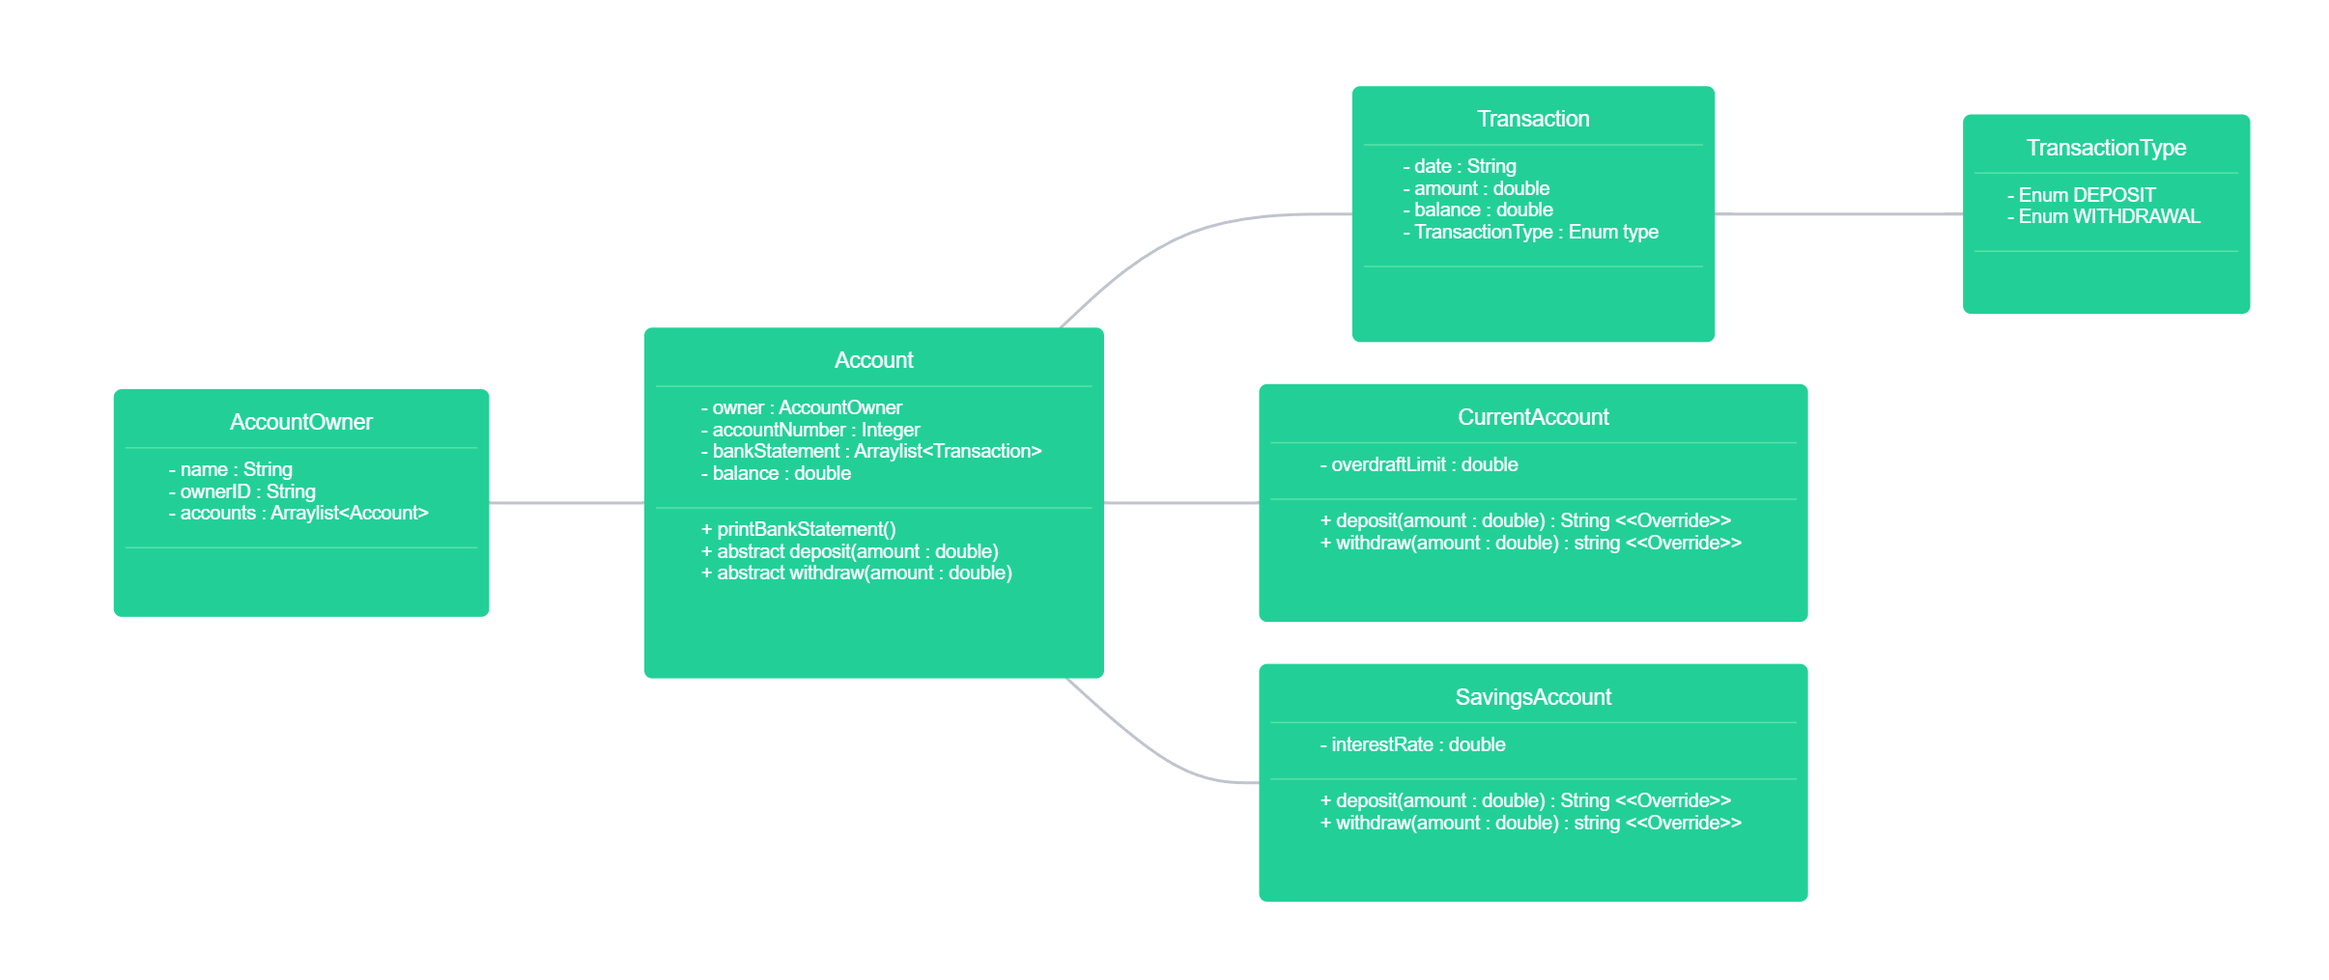
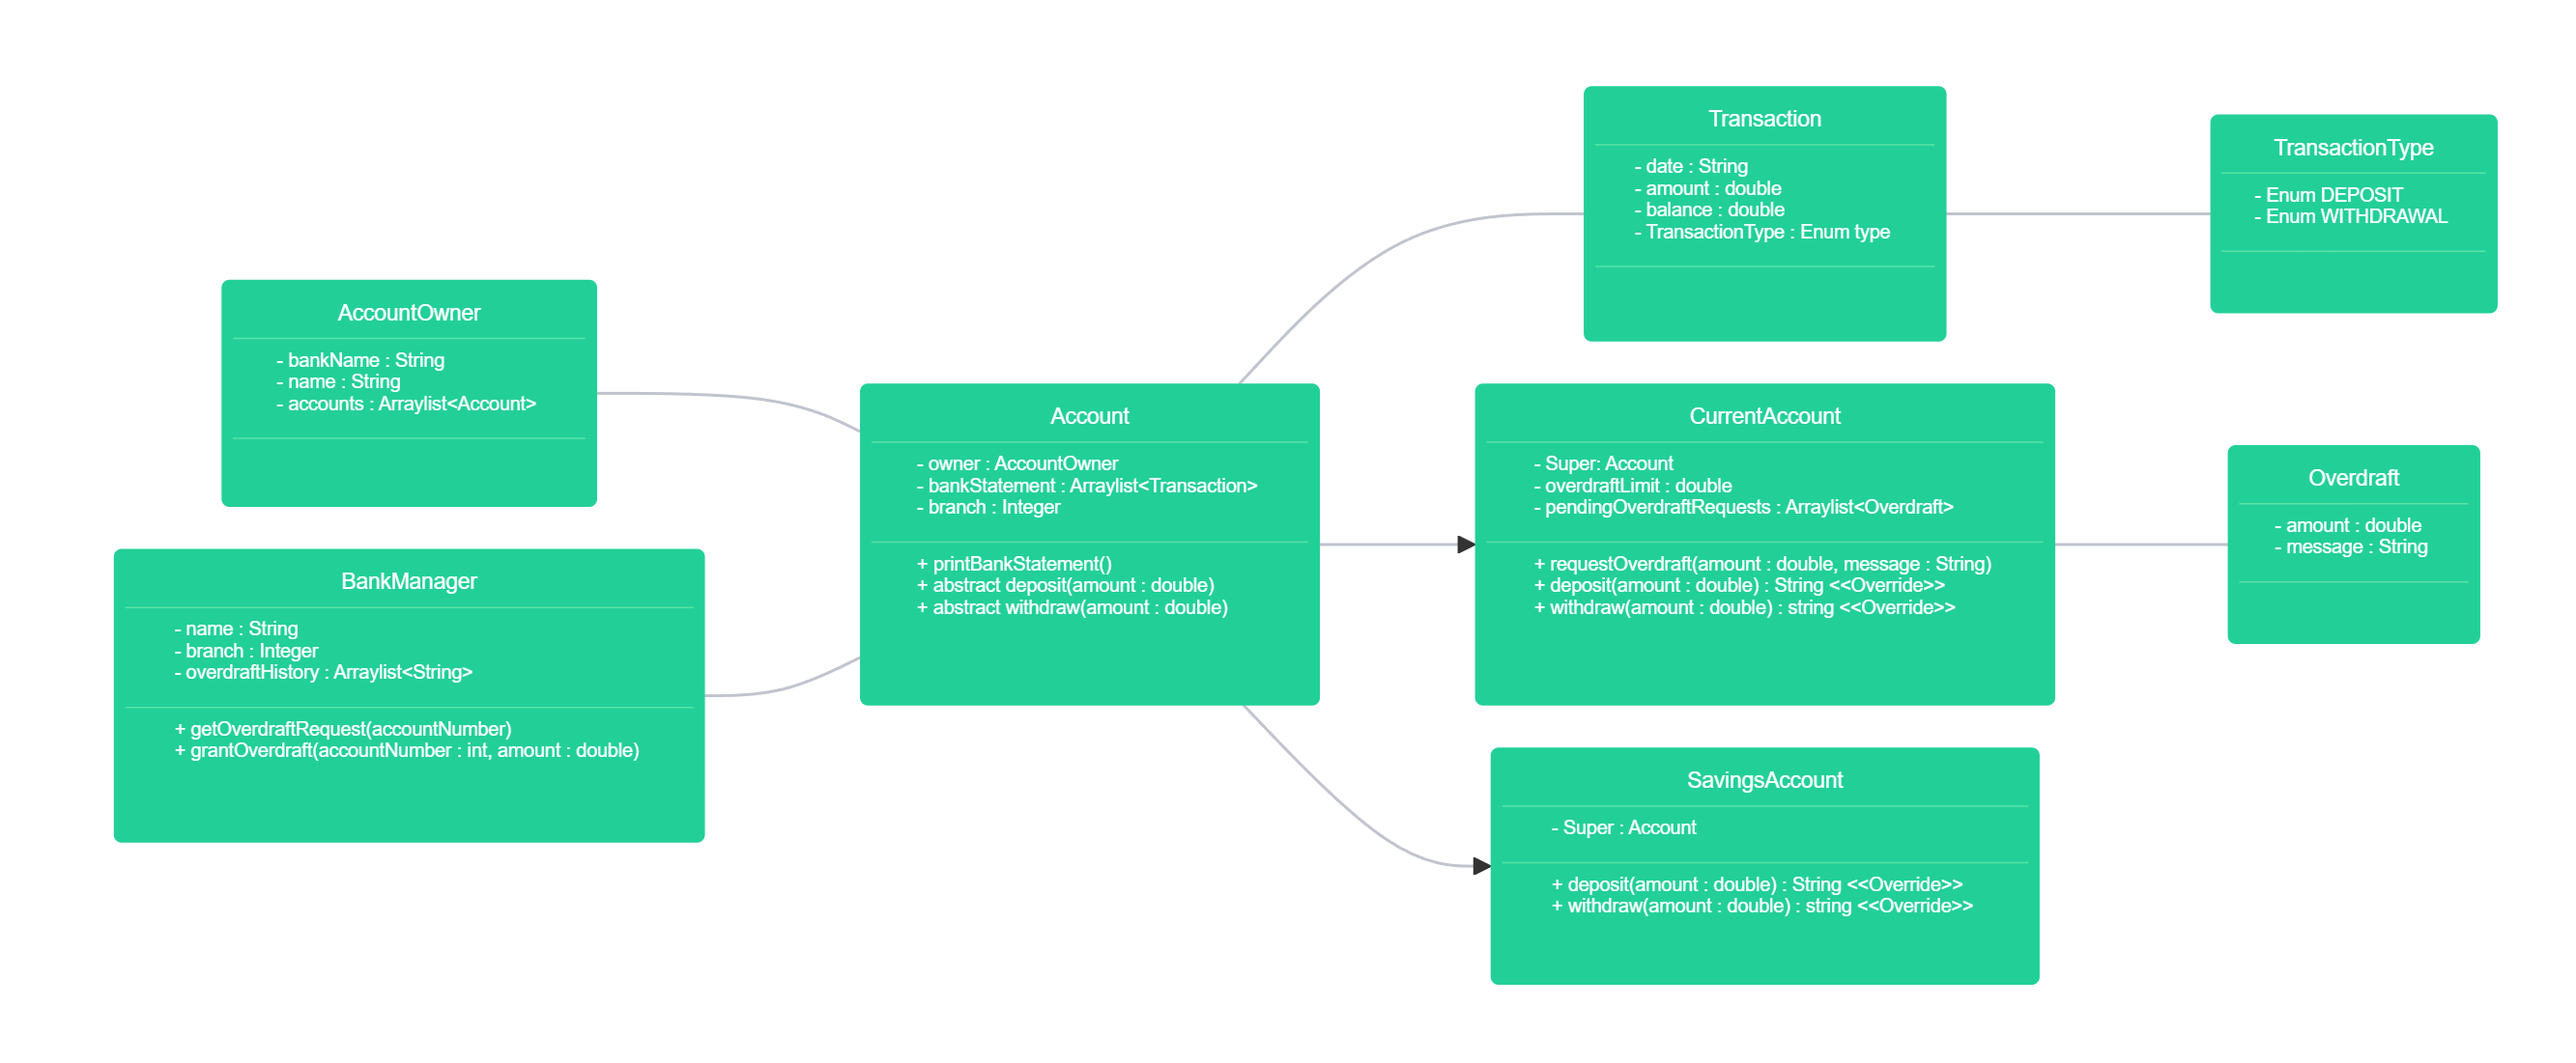
Updated class-diagram.png & domain-model.md

Changed region(s): [[0.0311, 0.0611, 0.9643, 0.9468], [0.8399, 0.0916, 0.9954, 0.336]]

diff --git a/domain-model.md b/domain-model.md
@@ -1,15 +1,19 @@
+| Class         | Member Variables                     | Methods                                  | Scenario                                                                         | Output                        |
+|---------------|--------------------------------------|------------------------------------------|----------------------------------------------------------------------------------|-------------------------------|
+| `BankManager` | name : String                        |                                          |                                                                                  |                               |
+|               | branch : Integer                     |                                          |                                                                                  |                               |
+|               | overdraftHistory : Arraylist<String> |                                          |                                                                                  |                               |
+|               |                                      |                                          |                                                                                  |                               |
+|               |                                      | getOverdraftRequest(Account)             | Access the account's pendingOverdrafts arraylist and get the overdraft at idx 0. | Overdraft/ message and amount |
+|               |                                      | grantOverdraft(Account, amount : double) | Should provide the account with the granted overdraft amount.                    | String                        |
 
-| Class          | Member variables    | Methods                                    | Scenario                                                                    | Output                            |
-|----------------|---------------------|--------------------------------------------|-----------------------------------------------------------------------------|-----------------------------------|
-| `AccountOwner` |                     |                                            |                                                                             |                                   |
-|                | bankName : String   |                                            |                                                                             |                                   |
-|                | bankBranch : String |                                            |                                                                             |                                   |
-|                | ownerID : String    |                                            |                                                                             |                                   |
-|                | name : String       |                                            |                                                                             |                                   |
-|                | Arraylist<Account>  |                                            |                                                                             |                                   | 
-|                |                     | openNewAccount(accountType : String)       | Should create a new account and add it to Arraylist account                 | "New account successfully opened" |
-|                |                     | generateBankStatement(accountNumber : int) | Takes the accountable and then retrieves the bankStatement for that account |                                   |
-
+| Class          | Member variables    |
+|----------------|---------------------|
+| `AccountOwner` |                     |
+|                | bankName : String   |
+|                | bankBranch : String |
+|                | name : String       |
+|                | Arraylist<Account>  | 
 
 | Class     | Member Variables                       | Methods                                           | Scenario                                                                                                | Output                         |
 |-----------|----------------------------------------|---------------------------------------------------|---------------------------------------------------------------------------------------------------------|--------------------------------|
@@ -23,23 +27,33 @@
 |           |                                        |                                                   |                                                                                                         |                                |
 |           |                                        |                                                   |                                                                                                         |                                |
 
-| Class                            | Member Variable         | Methods                         | Scenario                           | Output |
-|----------------------------------|-------------------------|---------------------------------|------------------------------------|--------|
-| `currentAccount extends Account` | overdraftLimit : double |                                 |                                    |        |
-|                                  |                         | applyOverdraft(amount : double) | applies  overdraft to the balance. |        |
-|                                  |                         |                                 |                                    |        |
+| Class                            | Member Variable                                 | Methods                                                       | Scenario                                                                                                                                      | Output |
+|----------------------------------|-------------------------------------------------|---------------------------------------------------------------|-----------------------------------------------------------------------------------------------------------------------------------------------|--------|
+| `currentAccount extends Account` | overdraftLimit : double                         |                                                               |                                                                                                                                               |        |
+|                                  | pendingOverdraftRequests : Arraylist<Overdraft> |                                                               |                                                                                                                                               |        |
+|                                  |                                                 | makeOverdraftRequest(amount : double, message : String)       | creates an instance of Overdraft and adds it to the pendingOverdrafts list                                                                    | String |
+|                                  |                                                 | deposit(amount : double, description : String)<<Override>>    | Adds the deposit to the balance, creates a transaction, adds it to bankStatement                                                              | String |
+|                                  |                                                 | withdrawal(amount : double, description : String)<<Override>> | Should remove the withdrawal from the balance taking into account the overdraftLimit, create a transaction for it and add it to bankStatement | String |
+|                                  |                                                 |                                                               |                                                                                                                                               |        |
 
-| Class                            | Member Variable | Methods | Scenario | Output |
-|----------------------------------|-----------------|---------|----------|--------|
-| `SavingsAccount extends Account` |                 |         |          |        |
-|                                  |                 |         |          |        |
-|                                  |                 |         |          |        |
+| Class                            | Member Variable | Methods                                            | Scenario                                                                                                | Output |
+|----------------------------------|-----------------|----------------------------------------------------|---------------------------------------------------------------------------------------------------------|--------|
+| `SavingsAccount extends Account` |                 |                                                    |                                                                                                         |        |
+|                                  |                 | deposit(amount : double, description : String)     | Adds the deposit to the balance, creates a transaction, adds it to bankStatement                        | String |
+|                                  |                 | withdrawal(amount : double, description : String)  | Should remove the withdrawal from the balance, create a transaction for it and add it to bankStatement. | String |
     
-| Class         | Member Variable      | Methods   | Scenario                 | Output   |
-|---------------|----------------------|-----------|--------------------------|----------|
-| `Transaction` | date : String        |           |                          |          |
-|               | deposit : double     |           |                          |          |
-|               | withdrawal : double  |           |                          |          |
-|               | balance : double     |           |                          |          | 
-|               | description : String |           |                          |          |
-|               |                      | getDate() | use Datetime to get date | Datetime |        
+| Class         | Member Variable     |
+|---------------|---------------------|
+| `Transaction` | date : String       |
+|               | deposit : double    |
+|               | withdrawal : double |
+|               | balance : double    | 
+|               |                     |
+|               |                     |        
+
+| Class       | Member variable  |
+|-------------|------------------|
+| `Overdraft` |                  |
+|             | message : String |
+|             | amount : double  |
+
